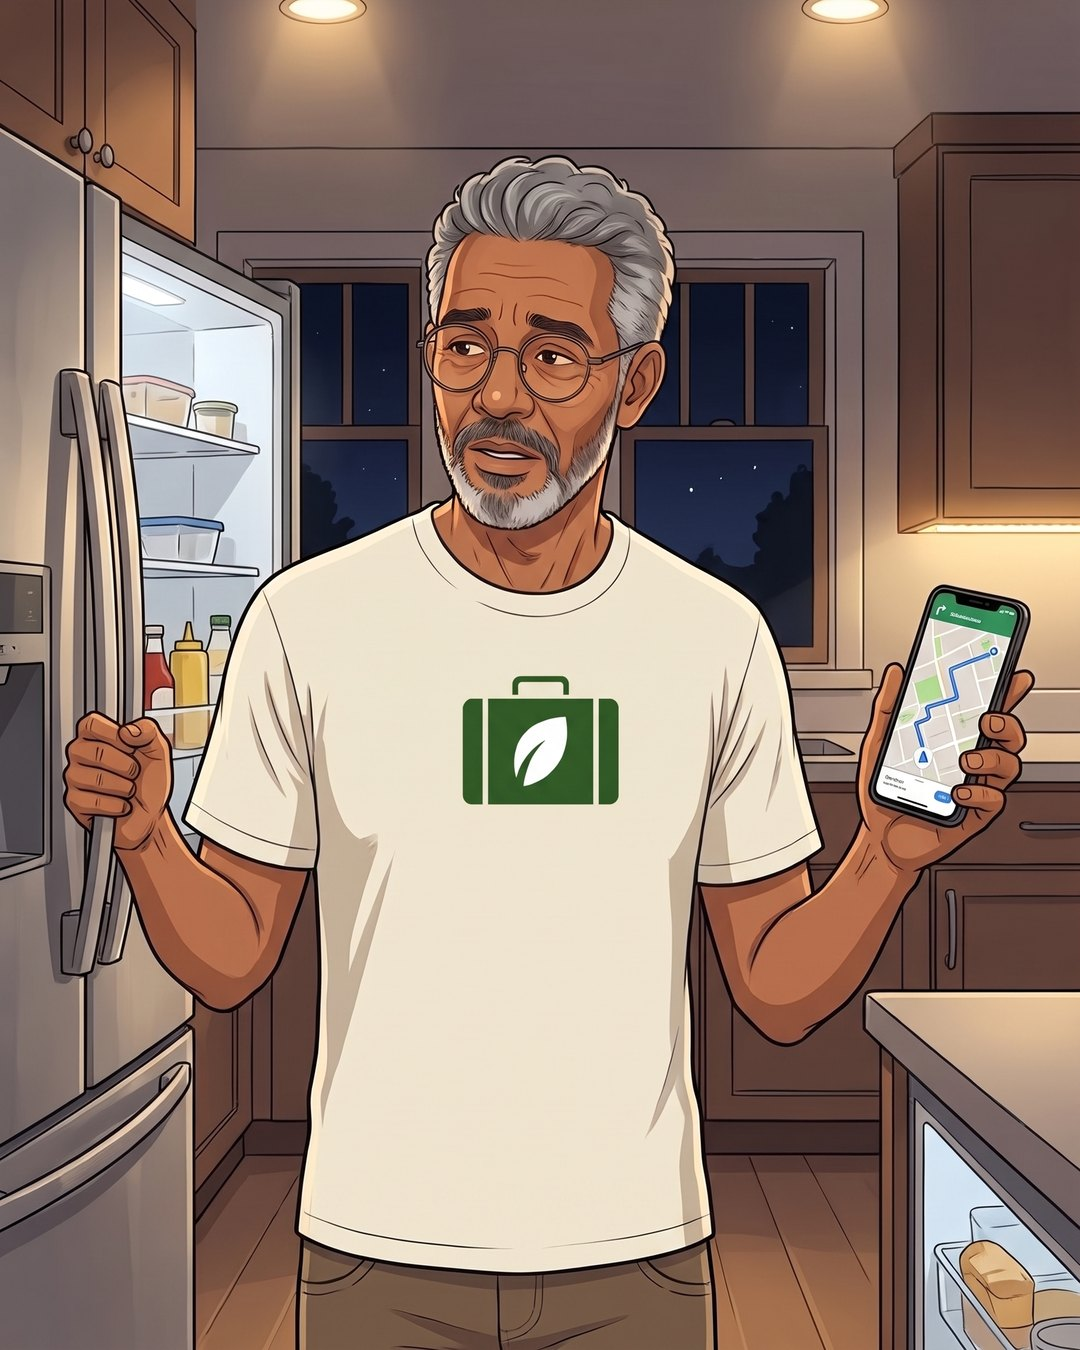
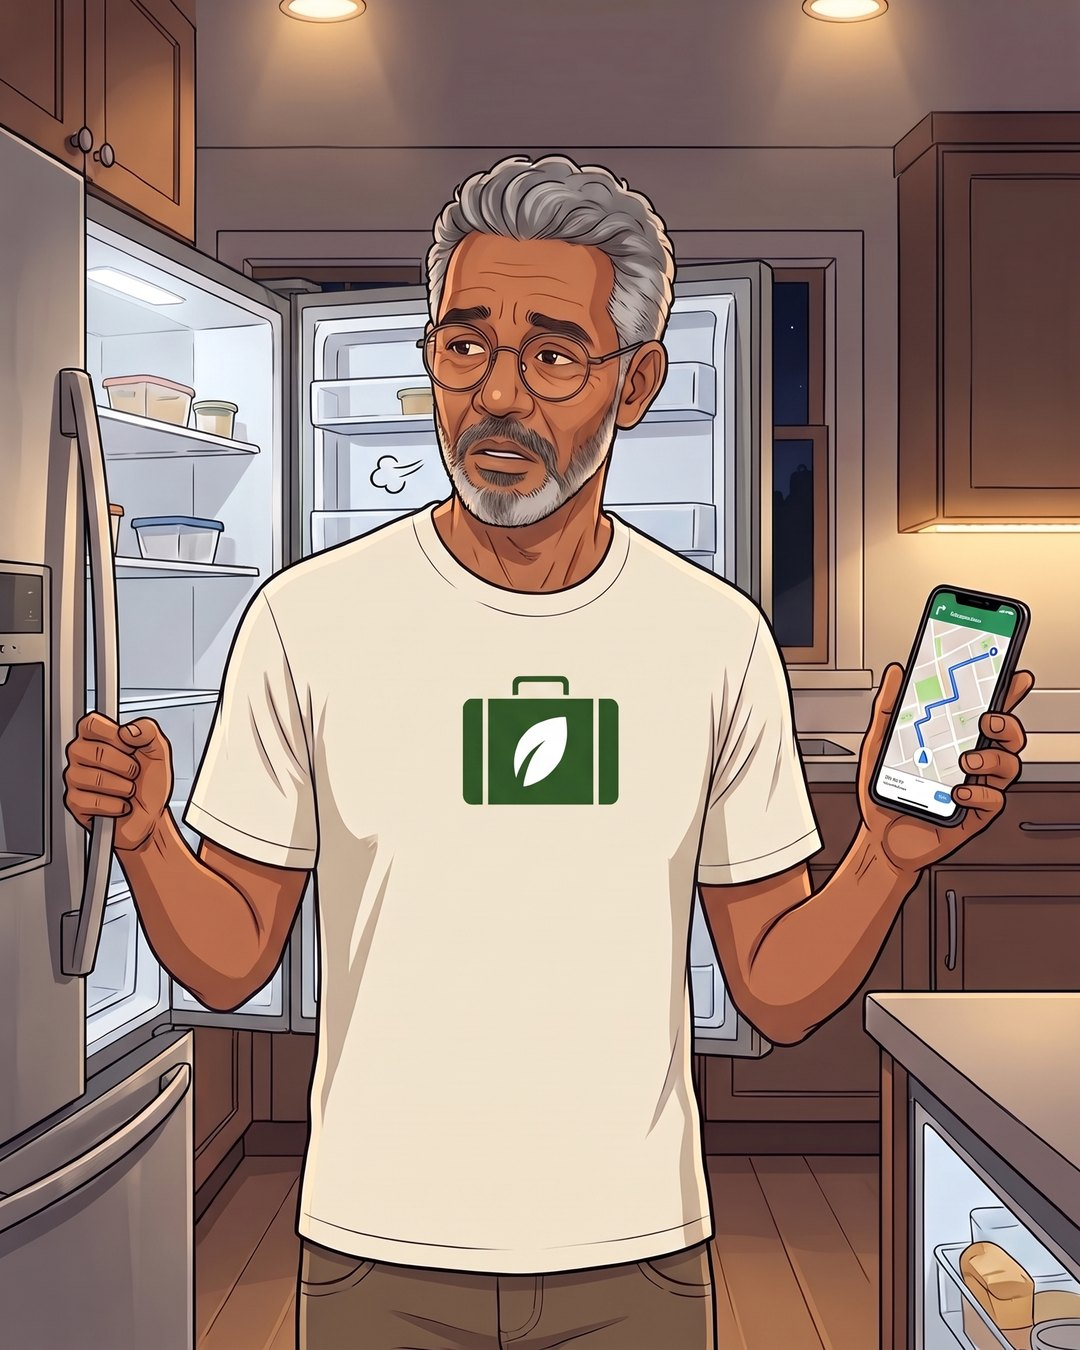
Social fixes from Sean's notes: Theo's fridge, end-card Link in bio clear of the stripe, episode stories with rundown cards; design team once-over brief
Claude-Session: https://claude.ai/code/session_016TNa9UbJfSyMYLUwC33Bbw

diff --git a/scripts/brand-templates/podcast-pack/episode-card.js b/scripts/brand-templates/podcast-pack/episode-card.js
@@ -1,0 +1,32 @@
+// The episode rundown card for a story's 4:5 picture area (Sean, 2026-11-15, on the SoFlo 112 story: "Is it just a thing that says new episode?
+// And then no details in it, nothing. I don't like that at all."). A white card on the show's brand green: "On this episode", one row per segment
+// (the business's real logo or the person's own photo on a white square, or a small tile), with the lower part left clear for the story's link sticker (the bottom of a story sits under the reply bar). Words sit on
+// color, never on a picture. The story itself stays the locked pack story (render.js kind story, art type img = this card).
+// Usage: node scripts/brand-templates/podcast-pack/episode-card.js <card.json> <out.jpg>   (site served at localhost:8765)
+// card.json: { "eyebrow": "On this episode", "rows": [ { "pic": "url or /path", "fit": "contain|cover", "tile": "Dec 11", "text": "..." } ], "foot": "..." }
+const fs = require('fs'); const { chromium } = require('playwright');
+const [specPath, out, base = 'http://localhost:8765'] = process.argv.slice(2);
+const C = JSON.parse(fs.readFileSync(specPath, 'utf8'));
+const esc = (s) => String(s).replace(/[&<>"]/g, (c) => ({ '&': '&amp;', '<': '&lt;', '>': '&gt;', '"': '&quot;' }[c]));
+const row = (r) => `<div class="r"><div class="p">${r.tile ? `<b>${esc(r.tile)}</b>` : `<img src="${esc(r.pic)}" style="object-fit:${r.fit || 'contain'}">`}</div><div class="t">${esc(r.text)}</div></div>`;
+const html = `<!doctype html><html><head><meta charset="utf-8"><base href="${base}/">
+<link href="https://fonts.googleapis.com/css2?family=Montserrat:wght@600;800;900&display=swap" rel="stylesheet"><style>
+*{box-sizing:border-box;margin:0} body{width:1080px;height:1350px;background:#2D5C27;font-family:Montserrat,sans-serif;padding:70px 64px}
+.c{background:#fff;border:7px solid #1a1a1a;border-radius:36px;box-shadow:16px 16px 0 #F69820;height:100%;padding:56px 54px;display:flex;flex-direction:column}
+.e{align-self:flex-start;background:#1a1a1a;color:#fff;font-weight:900;font-size:30px;letter-spacing:.16em;text-transform:uppercase;padding:12px 20px;border-radius:12px}
+.rs{display:flex;flex-direction:column;gap:30px;margin-top:44px;flex:1}
+.r{display:flex;align-items:center;gap:30px}
+.p{width:150px;height:150px;flex:none;border:5px solid #1a1a1a;border-radius:24px;overflow:hidden;background:#fff;display:grid;place-items:center}
+.p img{width:100%;height:100%;padding:8px} .p img[style*=cover]{padding:0}
+.p b{font-weight:900;font-size:40px;line-height:1;text-align:center;color:#1a1a1a;background:#E8F5E9;width:100%;height:100%;display:grid;place-items:center;padding:10px}
+.t{font-weight:800;font-size:40px;line-height:1.15;color:#1a1a1a}
+.f{margin-top:auto;align-self:flex-start;background:#F69820;color:#1a1a1a;border:5px solid #1a1a1a;border-radius:14px;font-weight:900;font-size:34px;letter-spacing:.1em;text-transform:uppercase;padding:16px 24px}
+</style></head><body><div class="c"><span class="e">${esc(C.eyebrow || 'On this episode')}</span><div class="rs">${C.rows.map(row).join('')}</div>${C.foot ? `<span class="f">${esc(C.foot)}</span>` : ''}</div></body></html>`;
+(async () => {
+  const b = await chromium.launch(); const p = await b.newPage({ viewport: { width: 1080, height: 1350 } });
+  await p.goto(base + '/index.html', { waitUntil: 'domcontentloaded' }).catch(() => {});
+  await p.setContent(html, { waitUntil: 'networkidle' }); await p.evaluate(() => document.fonts.ready);
+  const over = await p.evaluate(() => { const rs = document.querySelector('.rs'); return rs.scrollHeight > rs.clientHeight + 1; });
+  if (over) { console.error('rows run over the card, not written'); await b.close(); process.exit(2); }
+  await p.screenshot({ path: out, type: 'jpeg', quality: 90 }); await b.close(); console.log('wrote', out);
+})();

diff --git a/scripts/brand-templates/podcast-pack/pack.css b/scripts/brand-templates/podcast-pack/pack.css
@@ -545,3 +545,11 @@ html,body{margin:0;background:#fff}
 .ptile b{display:block;background:var(--br);font-size:6.4cqw;font-weight:900;letter-spacing:.12em;text-transform:uppercase;padding:2.4cqw 0;border-bottom:1.2cqw solid var(--ink)}
 .ptile span{display:block;font-size:24cqw;font-weight:900;line-height:1.05;letter-spacing:-.04em}
 .ptile i{display:block;font-style:normal;font-size:5cqw;font-weight:800;padding-bottom:3cqw;color:var(--mute)}
+
+/* 2026-11-15, Sean: "It looks like the link in bio is getting cut off by the bottom". The end card's Listen free block ran under the stripe;
+   tighter spacing above it keeps the Link in bio tag fully clear of the stripe (the 16:9 city stays whole). */
+.endc2 .lo { padding-bottom: 12cqw !important; }
+.endc2 h5 { margin-top: 2.6cqw !important; }
+.endc2 .plats { gap: 1.8cqw !important; margin-bottom: 0 !important; }
+.endc2 .plats .ic span { width: 13cqw !important; height: 13cqw !important; }
+.endc2 .plats .ic img { width: 8cqw !important; height: 8cqw !important; }

diff --git a/public/social/review-2026-11-16/BRIEF.md b/public/social/review-2026-11-16/BRIEF.md
@@ -1,0 +1,25 @@
+# Design team once-over: the week of Nov 16 (2026-11-15)
+
+Sean (the client) locked the four-designer team that made the Founding Member carousels as the standing design team for all Vegans Explore
+designs: "I almost just want to lock in that design team that created those graphics, just to make sure that the look and feel applies through it.
+So anything that hasn't gotten a once over from that panel, let's do that." You are one of the four. Your own earlier work and its brief:
+`public/social/founding/BRIEF.md` and `public/social/founding/<your-slug>/` (read the brief: the brand rules, facts and tools all still apply).
+
+His notes on this week so far (already fixed by Logan, the creative director): Theo's open fridge had closed handles; the podcast end card's
+LINK IN BIO tag was cut off by the stripe; the episode stories said only "New episode" with no details ("Why would I approve that?").
+Earlier rules from him: show the platform, Guides anchor it; Guides in scenes doing something, never just waving; a mixed cast, new art per post
+in the current look; never two cityscapes back to back on the grid; words never on a picture; no face cut off or covered; no readable third-party
+logos or lettering in our drawn scenes; only true, built things (the Daily Pulse is stale; joining stays free after January 1, only Founding Member
+closes; the Restaurant Guide is for restaurant owners, the Events Guide for hosts; topic Guides cost $11, do not promote those as free).
+
+## Your share (look at every file, full size and at 360 px wide; the grid and story views are `public/social/week-2026-11-16/grid-preview.jpg`
+and `stories-preview.jpg`; captions are in the migrations named below)
+(given in your task message)
+
+## Deliver, only inside `public/social/review-2026-11-16/<your-slug>/`
+1. `review.md`: one line per piece: SHIP, or FIX with exactly what and why (be concrete: which slide, which words, which crop). Flag anything
+   untrue, off-brand, unreadable at phone size, or that breaks a rule above. Keep it short.
+2. For each FIX you can make with the existing tools and assets (no new image generation), render the fixed file into your folder with the same
+   file name, and say so in the review. Do not overwrite anything outside your folder.
+3. Report back in under 200 words: counts of SHIP and FIX, the fixes you rendered, and anything that needs new art or Sean's call.
+Do not commit, no database, no live systems.
